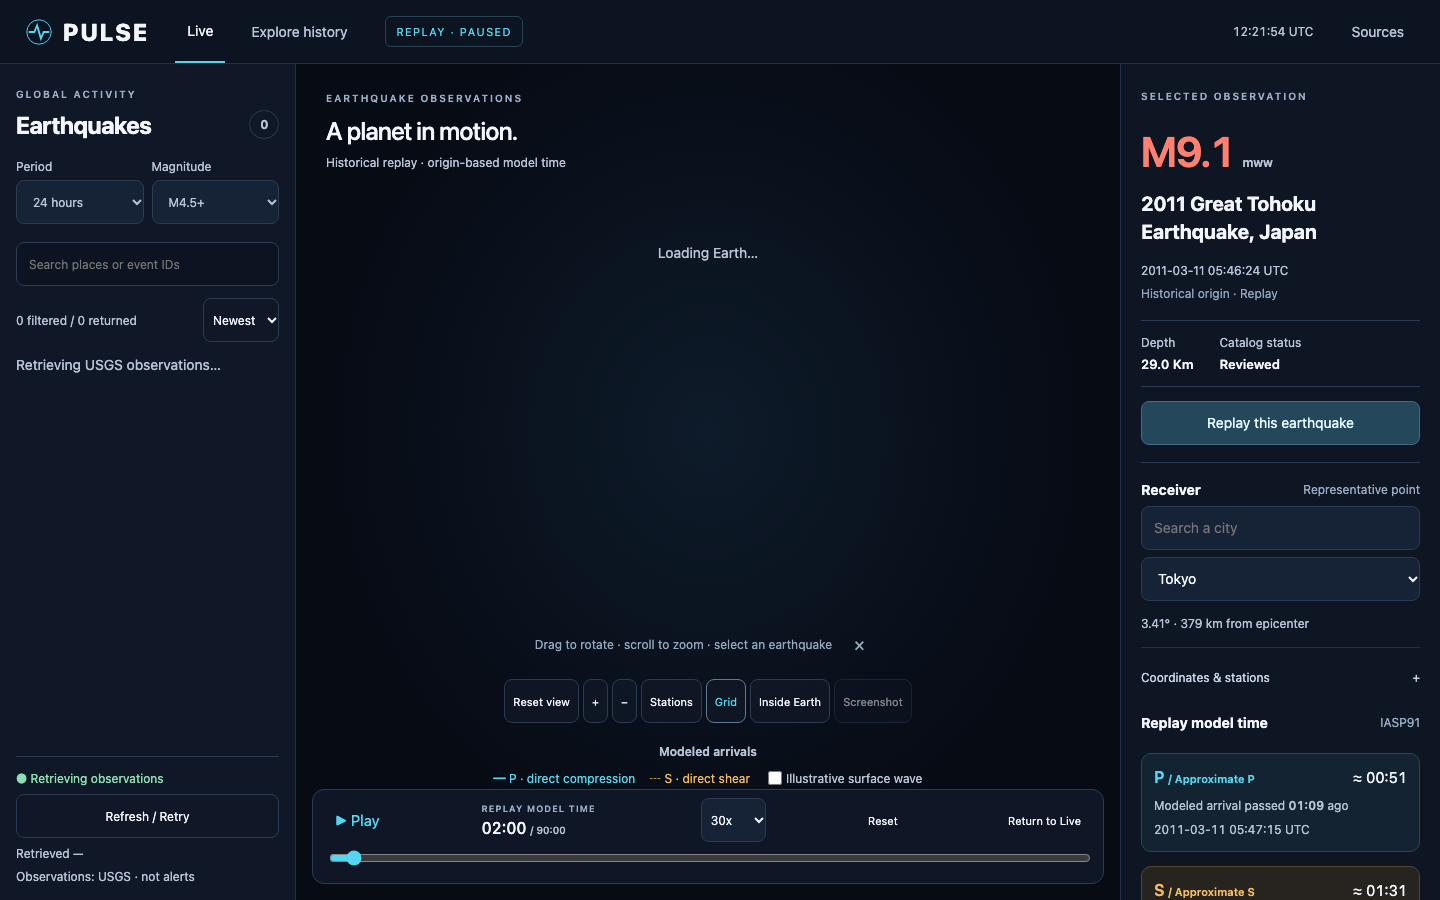
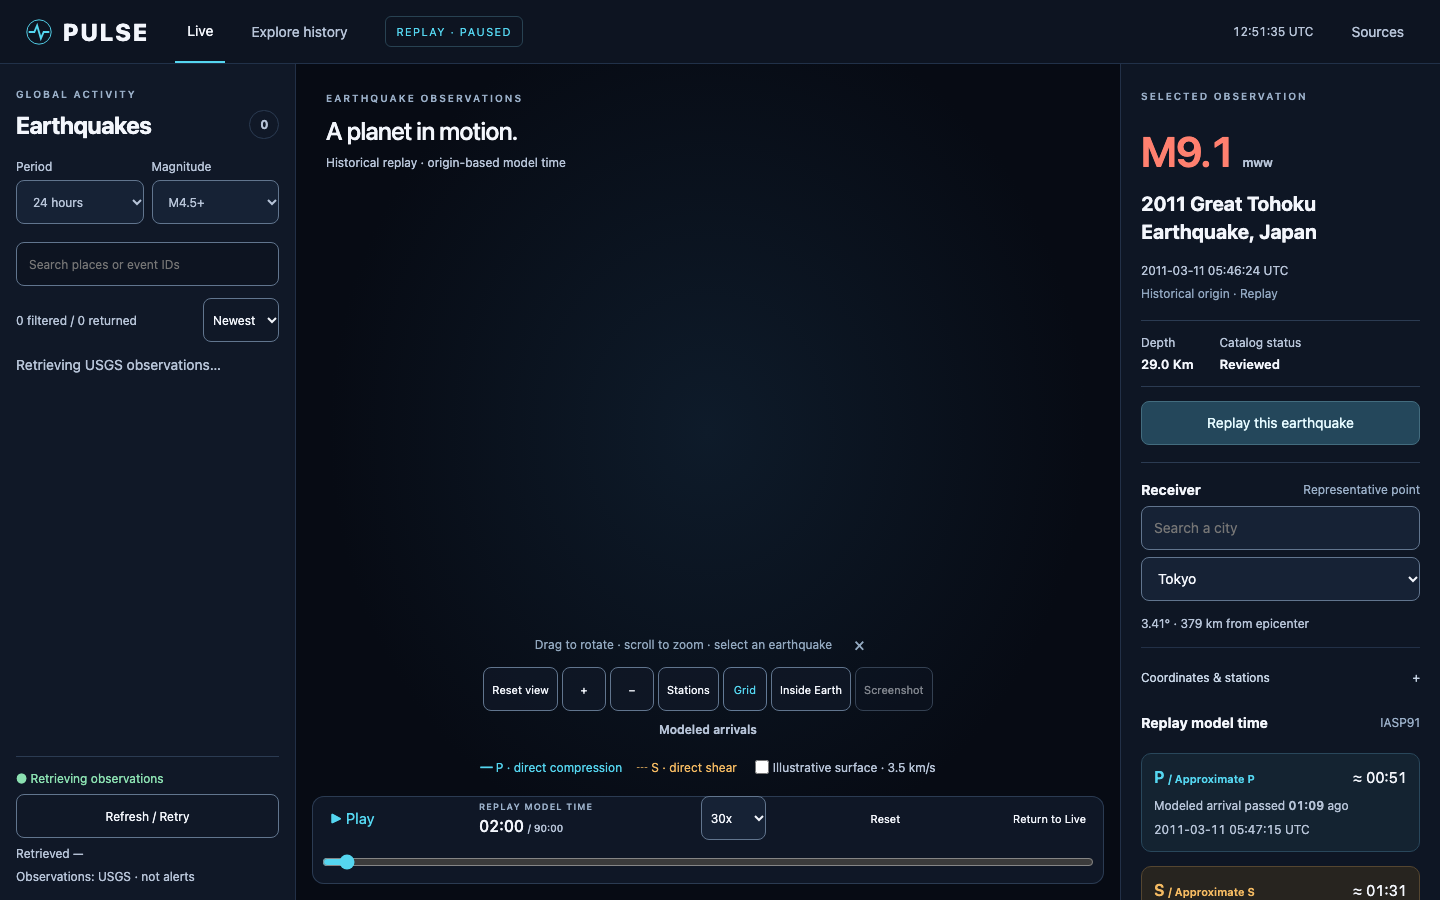
Improve receiver inspection and mobile replay controls in v1.0.1

Changed region(s): [[0.2188, 0.7467, 0.75, 0.9644], [0.4688, 0.28, 0.5, 0.3111]]

diff --git a/src/app/App.tsx b/src/app/App.tsx
@@ -302,6 +302,10 @@ export default function App() {
       frame = 0;
     const tick = () => {
       const time = performance.now();
+      if (time - last > 1500) {
+        setPlaying(false);
+        return;
+      }
       if (document.hidden) {
         setPlaying(false);
         return;
@@ -442,6 +446,9 @@ export default function App() {
   }, [stationEnabled, selected?.id]);
   const setRecv = (r: Receiver) => {
     setReceiver(r);
+    setLat(String(r.lat));
+    setLon(String(r.lon));
+    if (r.station || r.id === "coordinate") setTab("receiver");
     setPick(false);
     if (cities.some((c) => c.id === r.id)) save("city", r.id);
     setCoordError("");
@@ -1200,13 +1207,17 @@ export default function App() {
                 )}
                 <div className="globe-tools">
                   <button
+                    aria-label="Reset view"
                     onClick={() => {
                       setFocus(false);
                       setZoom(0);
                     }}
                     title="Reset view"
                   >
-                    Reset view
+                    <span className="full-label">Reset view</span>
+                    <span className="compact-label" aria-hidden="true">
+                      ↺
+                    </span>
                   </button>
                   <button
                     onClick={() => {
@@ -1257,6 +1268,10 @@ export default function App() {
                       PNG
                     </span>
                   </button>
+                </div>
+                <div className="mobile-model-label">
+                  Modeled arrivals · <span className="p-color">━ P</span> ·{" "}
+                  <span className="s-color">┄ S</span>
                 </div>
                 <div className="legend">
                   <strong>Modeled arrivals</strong>
@@ -1380,7 +1395,9 @@ export default function App() {
                 <div className="detail-mag">
                   M{selected.magnitude?.toFixed(1) ?? "?"}{" "}
                   <small>
-                    {selected.magnitudeType ?? "Unknown magnitude type"}
+                    {selected.magnitude === null
+                      ? "Unknown magnitude"
+                      : (selected.magnitudeType ?? "Unknown magnitude type")}
                   </small>
                 </div>
                 <h2>{selected.place}</h2>
@@ -1463,6 +1480,14 @@ export default function App() {
                     {geo.degrees.toFixed(2)}° ·{" "}
                     {Math.round(geo.km).toLocaleString()} km from epicenter
                   </p>
+                  <label className="mobile-surface">
+                    <input
+                      type="checkbox"
+                      checked={surface}
+                      onChange={(e) => setSurface(e.target.checked)}
+                    />
+                    Illustrative surface · 3.5 km/s
+                  </label>
                   <details open={tab === "receiver"}>
                     <summary>Coordinates & stations</summary>
                     <form

diff --git a/src/app/style.css b/src/app/style.css
@@ -1239,3 +1239,5 @@ label:has(>input[type=checkbox]){min-height:44px;display:flex;align-items:center
 .globe-tools{bottom:189px}
 @media(max-width:1199px){.globe-tools{bottom:189px}}
 @media(max-width:767px){.full-label{display:none}.compact-label{display:inline}.globe-tools{bottom:102px}.globe-canvas{bottom:150px}.replay-dock{padding:0 8px}}
+.mobile-model-label,.mobile-surface{display:none!important}
+@media(max-width:767px) and (orientation:portrait){.globe-tools button:first-child{display:block}.mobile-model-label{display:block!important;position:absolute;top:65px;left:16px;font-size:12px;z-index:2;background:#101827d9;padding:4px 8px;border-radius:4px}.mobile-surface{display:flex!important}.sheet-expanded .replay-dock{position:fixed;top:56px;bottom:auto;z-index:16}.sheet-expanded .mobile-tabs{top:88px}.sheet-expanded .event-rail,.sheet-expanded .inspector{top:132px}}

diff --git a/src/features/globe/Globe.tsx b/src/features/globe/Globe.tsx
@@ -145,6 +145,7 @@ function Markers({
       );
     });
     ref.current.instanceMatrix.needsUpdate = true;
+    ref.current.computeBoundingSphere();
     if (ref.current.instanceColor) ref.current.instanceColor.needsUpdate = true;
   }, [events, selected, dummy]);
   return (
